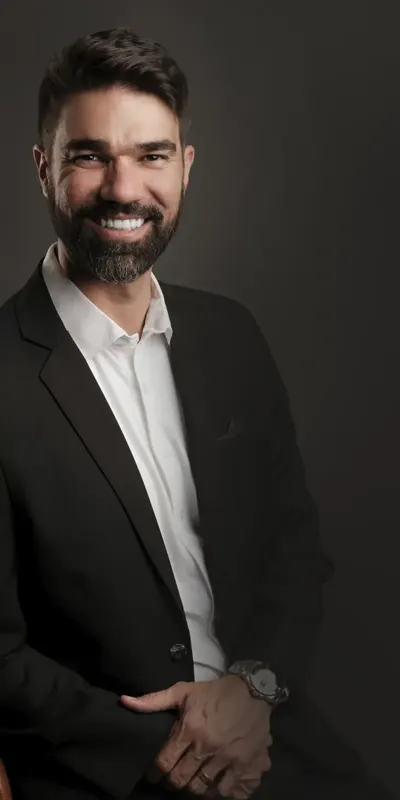
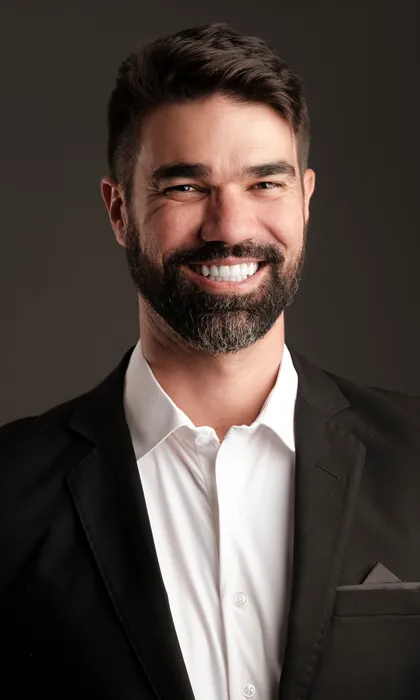
LP enxuta: fotos novas, sem os alvos soltos, acentos e alinhamentos corrigidos
Pedido do Danilo (13/11/2026):
- topo com foto da camera da edicao de setembro (IMG_0136), foto do evento
  mais escura (IMG_0113) e retrato de estudio em alta em "Quem conduz";
- kicker so "Imersao presencial"; texto da capa, 6 areas, "o que voce leva",
  "para quem e" e bio enxugados; sairam a faixa de fatos e a citacao;
- sem os alvos da capa, frases e fecho e sem os circulos dos cards;
- acentos (AREAS, ACAO) com folga; numeros e icones alinhados no celular;
- pergunta so fica laranja aberta; botao do WhatsApp centrado;
- rodape padrao de todos os sites.

diff --git a/index.html b/index.html
@@ -47,16 +47,15 @@
      Foto: o Gustavo no palco da edicao de 12/09/2026 (album, foto 18),
      recortada sem o QR code do telao. -->
 <section class="capa" aria-labelledby="capa-h">
-  <div class="alvo" aria-hidden="true"></div>
   <div class="capa__foto">
-    <img src="assets/img/novo/capa.webp" srcset="assets/img/novo/capa-420.webp 420w, assets/img/novo/capa.webp 680w" sizes="(min-width:760px) 52vw, 100vw" width="680" height="1800" alt="Gustavo Sampaio no palco do O Poder da Ação, de microfone na mão" fetchpriority="high" decoding="async">
+    <img src="assets/img/novo/capa.webp" srcset="assets/img/novo/capa-420.webp 560w, assets/img/novo/capa.webp 1200w" sizes="(min-width:760px) 52vw, 100vw" width="1200" height="1800" alt="Gustavo Sampaio no palco do O Poder da Ação, de microfone na mão" fetchpriority="high" decoding="async">
   </div>
   <div class="wrap">
     <div class="capa__txt">
-      <p class="capa__kicker">Imersão presencial · baseada no best-seller</p>
+      <p class="capa__kicker">Imersão presencial</p>
       <h1 id="capa-h"><span class="fina">O Poder</span><span class="peso lar">da Ação</span></h1>
       <p class="capa__com"><span>com</span> Gustavo Sampaio</p>
-      <p class="capa__lead">Você sabe que tem potencial. Mas algo está travando você. Em um dia, você sai com <strong>ferramentas comprovadas</strong> e um <strong>plano de ação</strong> para destravar a sua vida em 6 áreas.</p>
+      <p class="capa__lead">Um dia para sair com um <strong>plano de ação</strong> e destravar a sua vida em 6 áreas.</p>
       <p class="capa__data"><span class="grande">23 de janeiro · sábado</span><span class="menor">das 8h30 às 17h30, em Goiânia — GO</span></p>
       <div class="capa__cta">
         <a class="btn btn--lar" href="#ingressos">Quero garantir meu ingresso
@@ -66,53 +65,30 @@
   </div>
 </section>
 
-<!-- 16/09/2026 - EVENTO DE 23/01/2027 COM CIDADE, SEM ENDERECO, por decisao
-     do Danilo. A producao nao confirmou o local: a casa e o numero so entram
-     quando ela confirmar. Os pontos a trocar sao: esta faixa, a ficha dos
-     ingressos, as perguntas "Onde" e "check-in" e as duas meta description. -->
-<section class="fatos" aria-label="O evento em resumo">
-  <ul class="wrap">
-    <li><b>23/01/2027</b>sábado</li>
-    <li><b>8h30 às 17h30</b>um dia inteiro</li>
-    <li><b>Presencial</b>Goiânia — GO</li>
-    <li><b>Certificado</b>e material de apoio</li>
-  </ul>
-</section>
-
 <!-- ============ 2 · AS 6 ÁREAS ============ -->
 <section class="areas" aria-labelledby="areas-h">
   <div class="wrap">
     <span class="rot">O que você recebe</span>
     <h2 class="tit" id="areas-h"><span class="fina">Ferramentas para destravar</span><span class="peso">a sua vida em <span class="lar">6 áreas</span></span></h2>
-    <p class="intro">O best-seller que já transformou milhões de vidas, agora ao vivo, num treinamento presencial com o Gustavo Sampaio.</p>
+    <p class="intro">O conteúdo do livro, ao vivo, com o Gustavo Sampaio.</p>
     <div class="areas__grid">
-      <article class="area"><h3>Saúde Emocional</h3><p>Aprenda a dominar suas emoções, controlar a ansiedade, reduzir o estresse e recuperar o equilíbrio mental com neurociência e Coaching Sistêmico.</p></article>
-      <article class="area"><h3>Finanças Pessoais</h3><p>Aprenda a aumentar sua renda, investir com inteligência e conquistar liberdade financeira mesmo sem se considerar “bom com dinheiro”.</p></article>
-      <article class="area"><h3>Performance Pessoal</h3><p>Acesse seu estado máximo de produtividade, coragem e foco com técnicas práticas e validadas, mesmo que você se considere procrastinador.</p></article>
-      <article class="area"><h3>Carreira e Negócios</h3><p>Acelere seu crescimento profissional, alcance promoções, estruture seu negócio com clareza, posicione sua autoridade e escale resultados com consistência.</p></article>
-      <article class="area"><h3>Relacionamentos</h3><p>Melhore sua forma de se comunicar, criar conexões profundas, resolver conflitos com cônjuges, filhos, colegas e fortalecer vínculos com você mesmo.</p></article>
-      <article class="area"><h3>Propósito e Identidade</h3><p>Descubra seu propósito de vida, conecte-se com seus valores, desperte autenticidade e viva com mais sentido, força interior e clareza.</p></article>
+      <article class="area"><h3>Saúde Emocional</h3><p>Domine as emoções, a ansiedade e o estresse.</p></article>
+      <article class="area"><h3>Finanças Pessoais</h3><p>Aumente a renda e invista com inteligência.</p></article>
+      <article class="area"><h3>Performance Pessoal</h3><p>Mais foco, coragem e produtividade no dia a dia.</p></article>
+      <article class="area"><h3>Carreira e Negócios</h3><p>Cresça, posicione sua autoridade e escale resultados.</p></article>
+      <article class="area"><h3>Relacionamentos</h3><p>Comunique melhor e fortaleça seus vínculos.</p></article>
+      <article class="area"><h3>Propósito e Identidade</h3><p>Encontre seu propósito e viva com mais sentido.</p></article>
     </div>
   </div>
 </section>
 
-<!-- ============ 3 · A CERTEZA ============
-     Foto: o auditorio da edicao de 12/09/2026 (album, foto 21). -->
-<section class="certeza" aria-labelledby="certeza-h">
-  <div class="wrap certeza__grid">
-    <div>
-      <span class="rot" id="certeza-h">Como você sai do dia</span>
-      <p class="certeza__lead">Você vai sair do treinamento com energia, plano de ação e uma certeza poderosa:</p>
-      <blockquote class="citacao">
-        <p>“Agora eu sei <strong>exatamente o que fazer.</strong> E eu vou fazer.”</p>
-      </blockquote>
-      <div class="meio">
-        <a class="btn btn--lar" href="#ingressos">Quero garantir meu ingresso
-          <svg viewBox="0 0 24 24" aria-hidden="true"><path d="M5 12h14M13 6l6 6-6 6"/></svg></a>
-      </div>
-    </div>
+<!-- ============ 3 · A EDICAO DE SETEMBRO ============
+     13/11/2026: foto da camera (IMG_0113, 101CANON), mais escura. A citacao
+     "Agora eu sei exatamente o que fazer" saiu: a pagina foi enxugada. -->
+<section class="certeza" aria-label="A edição de setembro de 2026">
+  <div class="wrap">
     <figure class="plateia">
-      <img src="assets/img/novo/plateia.webp" srcset="assets/img/novo/plateia-900.webp 900w, assets/img/novo/plateia.webp 1600w" sizes="(min-width:860px) 42vw, 100vw" width="1600" height="1067" alt="Auditório cheio durante a imersão O Poder da Ação" loading="lazy" decoding="async">
+      <img src="assets/img/novo/plateia.webp" srcset="assets/img/novo/plateia-900.webp 900w, assets/img/novo/plateia.webp 1600w" sizes="(min-width:1240px) 1144px, 100vw" width="1600" height="900" alt="Gustavo Sampaio no palco do O Poder da Ação, com a plateia à frente" loading="lazy" decoding="async">
       <figcaption>O Poder da Ação <span>· edição de setembro de 2026, Goiânia</span></figcaption>
     </figure>
   </div>
@@ -124,21 +100,19 @@
     <span class="rot">O que você leva</span>
     <h2 class="tit" id="levar-h"><span class="fina">O que você vai</span><span class="peso">levar do evento</span></h2>
     <ol class="marcos">
-      <li class="marco"><div class="marco__ponto" aria-hidden="true"></div><h3>Um diagnóstico claro da sua vida atual e dos pontos cegos</h3><p>Você vai enxergar, com precisão cirúrgica, o que está te travando e por que seus resultados não decolaram até agora.</p></li>
-      <li class="marco"><div class="marco__ponto" aria-hidden="true"></div><h3>Estratégias práticas para aplicar no dia seguinte</h3><p>Nada de teoria vazia. Você sai com um plano de ação pronto para colocar a mão na massa e colher resultado rápido.</p></li>
-      <li class="marco"><div class="marco__ponto" aria-hidden="true"></div><h3>Ferramentas validadas que funcionam no mundo real</h3><p>Métodos usados pelas pessoas de maior sucesso para mudar padrões, acelerar decisões e romper ciclos de estagnação.</p></li>
-      <li class="marco"><div class="marco__ponto" aria-hidden="true"></div><h3 class="lar">Um estado emocional que te impulsiona</h3><p>Você vai destravar sua melhor versão, despertar sua coragem e sentir uma força interna que talvez nem soubesse que existia.</p></li>
+      <li class="marco"><div class="marco__ponto" aria-hidden="true"></div><h3>Um diagnóstico claro da sua vida atual e dos pontos cegos</h3></li>
+      <li class="marco"><div class="marco__ponto" aria-hidden="true"></div><h3>Estratégias práticas para aplicar no dia seguinte</h3></li>
+      <li class="marco"><div class="marco__ponto" aria-hidden="true"></div><h3>Ferramentas validadas que funcionam no mundo real</h3></li>
+      <li class="marco"><div class="marco__ponto" aria-hidden="true"></div><h3 class="lar">Um estado emocional que te impulsiona</h3></li>
     </ol>
   </div>
 </section>
 
 <!-- ============ 5 · FRASES ============ -->
-<section class="frases" aria-label="A imersão em três frases">
-  <div class="alvo" aria-hidden="true"></div>
+<section class="frases" aria-label="A imersão em uma frase">
   <div class="wrap">
     <figure class="frase"><blockquote><p>Potencial sem ação <span class="lar">não muda nada.</span></p></blockquote></figure>
-    <figure class="frase frase--fina"><blockquote><p>Nada de conteúdo raso e motivação barata: <strong>um dia para transformar intenção em ação.</strong></p></blockquote></figure>
-    <figure class="frase"><blockquote><p>O seu próximo nível começa com uma decisão.</p></blockquote></figure>
+    <figure class="frase frase--fina"><blockquote><p>Um dia para <strong>transformar intenção em ação.</strong></p></blockquote></figure>
   </div>
 </section>
 
@@ -155,7 +129,6 @@
       <li>Quer conquistar mais na vida pessoal, profissional e financeira, e está pronto.</li>
       <li>Está em uma jornada de autoconhecimento e busca ferramentas práticas para evoluir em todas as áreas.</li>
       <li>Deseja deixar uma marca positiva no mundo e ser uma fonte de inspiração para quem ama.</li>
-      <li>Está em busca de uma experiência de transformação verdadeira, não de conteúdo raso e motivação barata.</li>
     </ul>
   </div>
 </section>
@@ -167,15 +140,14 @@
 <section class="quem" aria-labelledby="quem-h">
   <div class="wrap quem__grid">
     <div class="quem__foto">
-      <img src="assets/img/novo/retrato.webp" srcset="assets/img/novo/retrato-400.webp 400w, assets/img/novo/retrato.webp 800w" sizes="(min-width:760px) 32vw, 300px" width="800" height="1600" alt="Gustavo Sampaio de blazer escuro e camisa branca, sorrindo" loading="lazy" decoding="async">
+      <img src="assets/img/novo/retrato.webp" srcset="assets/img/novo/retrato-400.webp 420w, assets/img/novo/retrato.webp 840w" sizes="(min-width:760px) 32vw, 300px" width="840" height="1400" alt="Gustavo Sampaio de blazer escuro e camisa branca, sorrindo" loading="lazy" decoding="async">
     </div>
     <div>
       <span class="rot" id="quem-h">Quem conduz</span>
       <p class="quem__nome">Gustavo Sampaio</p>
       <div class="quem__bio">
-        <p>Empresário, estrategista e palestrante, Gustavo Sampaio construiu sua base de liderança e alta performance ao longo de seis anos no Banco do Brasil, após ser aprovado em concurso público. Hoje lidera pessoas, projetos e processos voltados ao desenvolvimento pessoal e corporativo.</p>
-        <p>Essa busca por superação se reflete na paixão por desafios extremos de alta performance e inteligência emocional: travessias no Deserto do Saara e do Atacama, nos Lençóis Maranhenses e a subida ao acampamento-base do Everest.</p>
-        <p class="forte">Mais do que transmitir conhecimento, o propósito dele é provocar movimento: despertar indivíduos, fortalecer lideranças e transformar intenção em ação.</p>
+        <p>Empresário, estrategista e palestrante. Construiu sua base de liderança em seis anos no Banco do Brasil e hoje conduz pessoas e empresas no desenvolvimento pessoal e corporativo.</p>
+        <p class="forte">O propósito dele é provocar movimento: transformar intenção em ação.</p>
       </div>
       <div class="nums">
         <div class="num"><b>+15.000</b><span>alunos formados no ecossistema</span></div>
@@ -329,7 +301,6 @@
 
 <!-- ============ 10 · FECHO ============ -->
 <section class="fecho" aria-labelledby="fecho-h">
-  <div class="alvo" aria-hidden="true"></div>
   <div class="wrap">
     <span class="rot">Para terminar</span>
     <h2 class="fecho__frase" id="fecho-h">Transforme intenção <span class="lar">em ação.</span></h2>
@@ -341,11 +312,7 @@
 
 </main>
 
-<footer class="rodape">
-  <div class="wrap">
-    <span>Uma realização de Gustavo Sampaio · <a class="site" href="https://www.eusougustavosampaio.com/">eusougustavosampaio.com</a><br>© 2026 Gustavo Sampaio. Todos os direitos reservados.</span>
-  </div>
-</footer>
+<footer class="rodape-gs">© Gustavo Sampaio. Todos os direitos reservados.</footer>
 
 <script type="application/ld+json">
 {

diff --git a/styles.css b/styles.css
@@ -54,7 +54,7 @@ strong,b{font-weight:700}
 ::selection{background:var(--lar);color:#0a0a0a}
 .wrap{max-width:var(--wrap);margin:0 auto;padding:0 var(--gut)}
 .skip{position:fixed;left:1rem;top:-5rem;z-index:100;background:var(--lar);color:#0a0a0a;font-weight:700;padding:.8rem 1.2rem;border-radius:8px}
-.skip:focus{top:1rem}
+.skip:focus-visible{top:1rem}
 p+p{margin-top:1.1em}
 section{padding:var(--band) 0;position:relative}
 
@@ -72,18 +72,18 @@ section{padding:var(--band) 0;position:relative}
 /* título: linha fina + linha condensada pesada, em caixa alta */
 .tit{margin-top:1rem;line-height:1;text-transform:uppercase}
 .tit .fina{display:block;font-weight:300;font-size:clamp(1.35rem,3.2vw,2.1rem);letter-spacing:.06em}
-.tit .peso{display:block;font-family:var(--cond);font-weight:400;font-size:clamp(2.6rem,7vw,4.9rem);letter-spacing:.01em;line-height:1.04;margin-top:.15em}
+.tit .peso{display:block;font-family:var(--cond);font-weight:400;font-size:clamp(2.6rem,7vw,4.9rem);letter-spacing:.01em;line-height:1.18;margin-top:.3em}
 .intro{max-width:40rem;margin-top:1.4rem;color:var(--cinza)}
 
 /* botões */
 .btn{display:inline-flex;align-items:center;justify-content:center;gap:.6em;min-height:56px;padding:.95em 2.1em;border-radius:100px;font-weight:800;font-size:.92rem;line-height:1.15;letter-spacing:.08em;text-transform:uppercase;text-align:center;transition:transform .2s ease,box-shadow .2s ease}
 .btn--lar{color:#1A0F05;background:linear-gradient(180deg,var(--lar-0) 0%,var(--lar-50) 58%,var(--lar-100) 100%);box-shadow:0 14px 34px -14px rgba(242,140,40,.6)}
-.btn--lar:hover{transform:translateY(-2px);box-shadow:0 20px 40px -14px rgba(242,140,40,.75)}
+@media (hover:hover) and (pointer:fine){.btn--lar:hover{transform:translateY(-2px);box-shadow:0 20px 40px -14px rgba(242,140,40,.75)}}
 .btn--linha{color:var(--lar);border:1.5px solid var(--lar);background:transparent}
 .btn--linha:hover{background:var(--lar);color:#1A0F05}
 .btn svg{width:1.15em;height:1.15em;flex:none;fill:none;stroke:currentColor;stroke-width:2.4;stroke-linecap:round;stroke-linejoin:round}
 .btn--wa{color:#fff;background:var(--wa)}
-.btn--wa:hover{transform:translateY(-2px)}
+@media (hover:hover) and (pointer:fine){.btn--wa:hover{transform:translateY(-2px)}}
 .btn--wa svg{fill:currentColor;stroke:none}
 @media (max-width:380px){.btn{padding:.9em 1.3em;font-size:.84rem;letter-spacing:.05em}}
 .nota{font-size:.875rem;color:var(--cinza);margin-top:.9rem}
@@ -106,8 +106,9 @@ section{padding:var(--band) 0;position:relative}
 /* ============================================================ 1 · CAPA */
 .capa{min-height:min(100svh,980px);display:flex;align-items:flex-end;padding:6rem 0 clamp(3rem,7vw,5.5rem);overflow:hidden;isolation:isolate}
 .capa__foto{position:absolute;inset:0 0 0 auto;width:min(52%,760px);z-index:-2}
-.capa__foto img{width:100%;height:100%;object-fit:cover;object-position:50% 18%}
+.capa__foto img{width:100%;height:100%;object-fit:cover;object-position:50% 20%}
 .capa__foto::after{content:"";position:absolute;inset:0;background:
+  linear-gradient(180deg,rgba(15,16,18,.85) 0%,rgba(15,16,18,0) 16%),
   linear-gradient(90deg,var(--fundo) 0%,rgba(15,16,18,.75) 26%,rgba(15,16,18,0) 60%),
   linear-gradient(0deg,var(--fundo) 0%,rgba(15,16,18,0) 36%)}
 .capa .alvo{left:-16%;bottom:-30%;width:min(80vw,980px)}
@@ -116,7 +117,7 @@ section{padding:var(--band) 0;position:relative}
 .capa__kicker{font-size:.95rem;font-weight:700;letter-spacing:.24em;text-transform:uppercase;color:var(--cinza)}
 .capa h1{text-transform:uppercase;line-height:1;margin-top:.8rem}
 .capa h1 .fina{display:block;font-weight:300;font-size:clamp(2rem,6vw,3.7rem);letter-spacing:.08em}
-.capa h1 .peso{display:block;font-family:var(--cond);font-weight:400;font-size:clamp(4.4rem,15vw,8.6rem);letter-spacing:.01em;margin-top:.05em;line-height:1.08}
+.capa h1 .peso{display:block;font-family:var(--cond);font-weight:400;font-size:clamp(4.4rem,15vw,8.6rem);letter-spacing:.01em;margin-top:.12em;line-height:1.16}
 .capa__com{margin-top:.4rem;font-size:.95rem;font-weight:700;letter-spacing:.24em;text-transform:uppercase}
 .capa__com span{font-weight:300}
 .capa__lead{margin-top:1.5rem;max-width:35rem;font-size:clamp(1.08rem,1.8vw,1.3rem)}
@@ -128,7 +129,7 @@ section{padding:var(--band) 0;position:relative}
 @media (max-width:759px){
   .capa{min-height:auto;padding-top:0;flex-direction:column;align-items:stretch}
   .capa__foto{position:relative;inset:auto;width:100%;height:64vh;min-height:380px;max-height:580px;margin:0 0 -5rem}
-  .capa__foto img{object-position:50% 14%}
+  .capa__foto img{object-position:50% 12%}
   .capa__foto::after{background:linear-gradient(0deg,var(--fundo) 12%,rgba(0,0,0,0) 55%)}
   .capa > .wrap{position:relative}
 }
@@ -144,8 +145,7 @@ section{padding:var(--band) 0;position:relative}
 .areas__grid{margin-top:3rem;display:grid;grid-template-columns:repeat(3,minmax(0,1fr));gap:clamp(1rem,2vw,1.4rem);counter-reset:area}
 .area{background:var(--chao);border:1px solid var(--fio);border-radius:18px;padding:1.7rem 1.6rem 1.8rem;position:relative;overflow:hidden}
 .area::before{counter-increment:area;content:"0" counter(area);font-family:var(--cond);font-size:2.6rem;line-height:1;color:transparent;-webkit-text-stroke:1.2px var(--lar);display:block}
-.area::after{content:"";position:absolute;right:-2.6rem;top:-2.6rem;width:7rem;height:7rem;border-radius:50%;
-  background:repeating-radial-gradient(circle,transparent 0 10px,rgba(242,140,40,.18) 11px 12px,transparent 13px 22px)}
+
 .area h3{margin-top:1rem;font-weight:800;font-size:clamp(1.2rem,1.8vw,1.4rem);line-height:1.2;letter-spacing:.04em;text-transform:uppercase}
 .area p{margin-top:.6rem;color:var(--cinza);font-size:1rem}
 @media (max-width:959px){.areas__grid{grid-template-columns:repeat(2,minmax(0,1fr))}}
@@ -153,14 +153,14 @@ section{padding:var(--band) 0;position:relative}
 .meio{margin-top:2.8rem;display:flex;flex-wrap:wrap;align-items:center;gap:1rem 1.6rem}
 
 /* ============================================================ 3 · A CERTEZA (citação + plateia) */
-.certeza{background:var(--chao);overflow:hidden;isolation:isolate}
+.certeza{background:var(--chao);overflow:hidden;isolation:isolate;padding:clamp(2.5rem,6vw,4.5rem) 0}
 .certeza__grid{display:grid;grid-template-columns:minmax(0,6fr) minmax(0,5fr);gap:clamp(2rem,6vw,4.5rem);align-items:center}
 .citacao{border:1.5px solid var(--sun);border-radius:18px;padding:clamp(1.6rem,4vw,2.6rem) clamp(1.4rem,4vw,3rem);margin-top:1.6rem}
 .citacao p{font-size:clamp(1.45rem,3vw,2.2rem);font-weight:300;line-height:1.28}
 .citacao p strong{font-weight:800}
 .certeza__lead{color:var(--cinza);max-width:34rem;margin-top:1.2rem}
 .plateia{position:relative;border-radius:22px;overflow:hidden;box-shadow:0 30px 60px -30px rgba(0,0,0,.8)}
-.plateia img{width:100%;aspect-ratio:3/2;object-fit:cover}
+.plateia img{width:100%;aspect-ratio:16/9;object-fit:cover;object-position:50% 45%}
 .plateia::after{content:"";position:absolute;inset:0;border-radius:22px;box-shadow:inset 0 0 0 1px var(--fio)}
 .plateia figcaption{position:absolute;left:0;right:0;bottom:0;padding:2.4rem 1.2rem 1rem;font-size:.9rem;font-weight:700;letter-spacing:.06em;background:linear-gradient(0deg,rgba(15,16,18,.92),transparent)}
 .plateia figcaption span{font-weight:300;color:var(--cinza);letter-spacing:0}
@@ -191,7 +191,7 @@ section{padding:var(--band) 0;position:relative}
 .frase{max-width:54rem;position:relative}
 .frase+.frase{margin-top:clamp(2.6rem,6vw,4rem)}
 .frase:nth-child(3){margin-left:auto;text-align:right}
-.frase p{font-family:var(--cond);font-weight:400;text-transform:uppercase;font-size:clamp(1.9rem,5vw,3.6rem);line-height:1.08}
+.frase p{font-family:var(--cond);font-weight:400;text-transform:uppercase;font-size:clamp(1.9rem,5vw,3.6rem);line-height:1.18}
 .frase--fina p{font-family:var(--sans);font-weight:300;text-transform:none;font-size:clamp(1.4rem,3vw,2.2rem);line-height:1.3}
 .frase--fina p strong{font-weight:800}
 
@@ -224,7 +224,7 @@ section{padding:var(--band) 0;position:relative}
 .social a:hover{border-color:var(--lar);background:rgba(242,140,40,.12)}
 .social svg{width:20px;height:20px;fill:var(--snow)}
 @media (max-width:759px){.quem__grid{grid-template-columns:1fr}.quem__foto{max-width:300px}}
-@media (max-width:479px){.nums{grid-template-columns:1fr;gap:1.1rem}}
+@media (max-width:759px){.nums{text-align:center;gap:.6rem}.num b{font-size:1.75rem}.num span{font-size:.8rem}.social{justify-content:center}.quem .rot{display:flex;justify-content:center}.quem__nome,.quem__bio{text-align:center}}
 
 /* ============================================================ 8 · INGRESSOS */
 .vaga{text-align:center;isolation:isolate;overflow:hidden}
@@ -276,7 +276,9 @@ section{padding:var(--band) 0;position:relative}
 .faq summary::-webkit-details-marker{display:none}
 .faq summary:focus{outline:none}
 .faq summary:focus-visible{outline:2px solid var(--lar);outline-offset:4px;border-radius:4px}
-.faq summary:hover,.faq details[open] summary{color:var(--lar)}
+.faq details[open] summary{color:var(--lar)}
+@media (hover:hover) and (pointer:fine){.faq summary:hover{color:var(--lar)}}
+.faq summary{-webkit-tap-highlight-color:transparent}
 .faq summary::after{content:"";position:absolute;right:.4rem;top:50%;width:.7rem;height:.7rem;margin-top:-.5rem;border-right:2px solid var(--lar);border-bottom:2px solid var(--lar);transform:rotate(45deg);transition:transform .3s cubic-bezier(.2,.7,.2,1),margin-top .3s cubic-bezier(.2,.7,.2,1)}
 .faq details[open] summary::after{transform:rotate(-135deg);margin-top:-.15rem}
 .faq details p{padding:0 0 1.4rem;color:var(--cinza);max-width:46rem}
@@ -290,19 +292,18 @@ section{padding:var(--band) 0;position:relative}
   .faq details[open]::details-content{block-size:auto}
   .faq details[open] p{animation:none}
 }
-.faq__wa{margin-top:2.6rem;display:flex;flex-wrap:wrap;align-items:center;gap:1rem 1.4rem}
+.faq__wa{margin-top:2.6rem;max-width:52rem;display:flex;flex-direction:column;align-items:center;text-align:center;gap:.9rem}
 .faq__wa p{color:var(--cinza)}
 
 /* ============================================================ 10 · FECHO */
 .fecho{text-align:center;overflow:hidden;isolation:isolate}
 .fecho .alvo{left:50%;bottom:-55%;width:min(130vw,1200px);transform:translateX(-50%)}
-.fecho__frase{font-family:var(--cond);font-weight:400;text-transform:uppercase;font-size:clamp(2.4rem,7vw,5rem);line-height:1.04;max-width:15ch;margin:1.2rem auto 0}
+.fecho__frase{font-family:var(--cond);font-weight:400;text-transform:uppercase;font-size:clamp(2.4rem,7vw,5rem);line-height:1.2;max-width:15ch;margin:1.2rem auto 0}
 .fecho p.sub{max-width:36rem;margin:1.6rem auto 0;color:var(--cinza)}
 .fecho .btn{margin-top:2rem}
 
-/* ============================================================ RODAPÉ */
-.rodape{border-top:1px solid var(--fio);padding:2.2rem 0;font-size:.875rem;color:var(--cinza)}
-.rodape .wrap{display:flex;flex-wrap:wrap;justify-content:space-between;align-items:center;gap:1.2rem 2rem}
-.rodape a.site{border-bottom:1px solid var(--fio)}
-
+/* ============================================================ RODAPÉ
+   13/11/2026: rodape padrao de todos os sites do Gustavo - mesmo texto,
+   fonte, tamanho e cor. Mudou aqui, muda em todos. */
+.rodape-gs{border-top:1px solid rgba(255,255,255,.08);padding:28px 16px 32px;text-align:center;font-family:'Urbanist',system-ui,-apple-system,'Segoe UI',sans-serif;font-size:13px;font-weight:400;line-height:1.5;letter-spacing:.02em;color:rgba(255,255,255,.55)}
 @media (prefers-reduced-motion:reduce){*{transition:none!important;animation:none!important;scroll-behavior:auto!important}}
